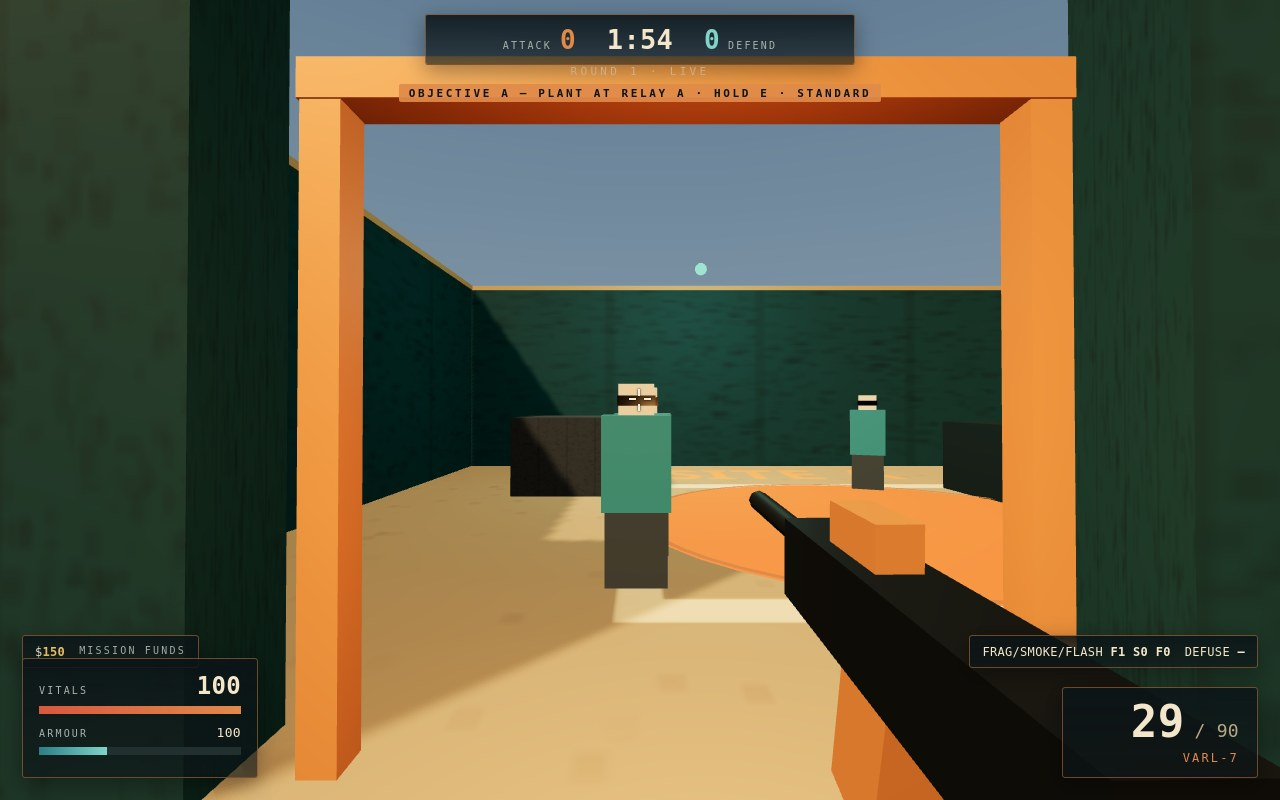
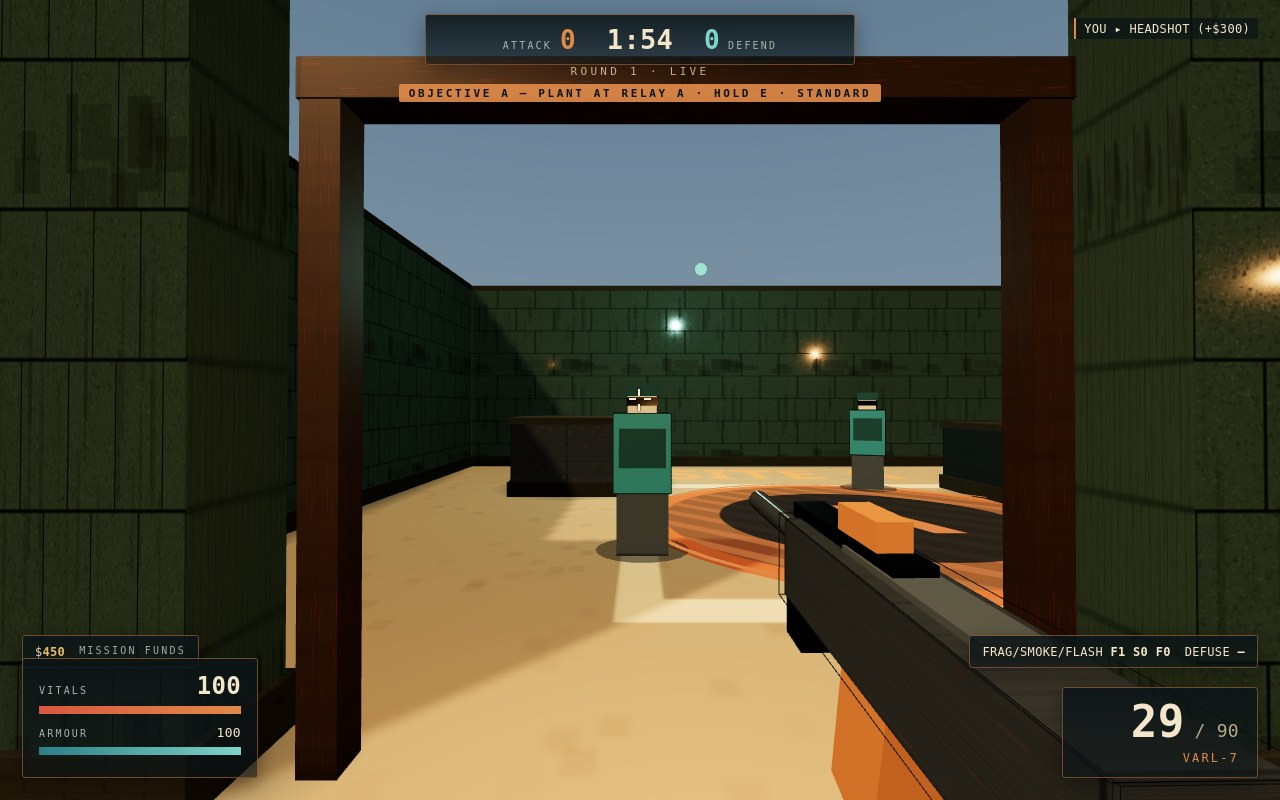
Material pass: tiled concrete/metal/sand, contact AO, outlined two-tone figures, detailed viewmodel
- world.js: canvas-built tiled textures (masonry concrete with mortar and damp streaks,
  brushed metal with rust, layered sand), reused as roughness maps; per-surface base
  colours so sand walls, concrete splitter, teal hall panels and steel crates separate;
  skirting and cap strips on every wall; hazard-hatch site markings per layout; contact
  AO gradient planes under every solid, all built once at load
- main.js: two-tone figures (torso + armour plate + helmet), team-specific head/helmet
  colour, static edge outlines on body and head, larger ground contact shadow
- world.js viewmodel: brushed receiver texture, rail and top strip, thinner accent sight,
  dark edge outline so the rifle reads as an object
- no gameplay logic touched; textures are built once, no per-frame canvas work

Tests: logic 8/8, objective 17/17, browser 60 checks (sim cost 34 ms per simulated second),
dossier 478274 bytes reproduced byte for byte.

diff --git a/game/world.js b/game/world.js
@@ -1,25 +1,78 @@
-// Render world: geometry generated from the same SOLIDS data used for collision.
+// Render world: geometry from the collision SOLIDS, materials from canvases built once at load.
 import * as THREE from 'three';
 import {SOLIDS,SITES} from './map.js';
 export const PALETTE={
   skyTop:'#243a56',skyLow:'#f0a45e',ground:'#8d7b5f',sand:'#c9ac82',sandDark:'#a88c64',
   teal:'#1f5f63',tealDark:'#143e44',steel:'#3a4149',orange:'#e08a4a',cream:'#f2e3c8',
+  grime:'#3a352b',concrete:'#6f7a74',
 };
 function canvasTexture(w,h,draw){
   const c=document.createElement('canvas');c.width=w;c.height=h;draw(c.getContext('2d'),w,h);
-  const t=new THREE.CanvasTexture(c);t.colorSpace=THREE.SRGBColorSpace;t.anisotropy=4;return t;
+  const t=new THREE.CanvasTexture(c);t.colorSpace=THREE.SRGBColorSpace;t.anisotropy=4;
+  t.wrapS=t.wrapT=THREE.RepeatWrapping;return t;
 }
-function noiseTexture(base,spec,size=128){
-  return canvasTexture(size,size,(g,w,h)=>{
+// Masonry: mortar joints, pitting, damp streaks near the base. Tiled, never redrawn per frame.
+function concreteTexture(base,mortar,repeatX=2,repeatY=1){
+  const t=canvasTexture(512,512,(g,w,h)=>{
     g.fillStyle=base;g.fillRect(0,0,w,h);
-    for(let i=0;i<900;i++){
-      const a=0.03+Math.random()*0.06;
-      g.fillStyle=`rgba(${spec},${a})`;
+    for(let i=0;i<9000;i++){
+      const a=0.04+Math.random()*0.13;
+      g.fillStyle=`rgba(255,255,255,${a*0.5})`;
+      g.fillRect(Math.random()*w,Math.random()*h,1+Math.random()*2,1+Math.random()*2);
+      g.fillStyle=`rgba(40,36,30,${a})`;
       g.fillRect(Math.random()*w,Math.random()*h,1+Math.random()*3,1+Math.random()*3);
     }
-    g.strokeStyle='rgba(0,0,0,0.16)';g.lineWidth=1;
-    for(let i=0;i<w;i+=32){g.beginPath();g.moveTo(i,0);g.lineTo(i,h);g.stroke();}
+    g.strokeStyle=mortar;g.lineWidth=3;
+    for(let y=0;y<=h;y+=128){g.beginPath();g.moveTo(0,y);g.lineTo(w,y);g.stroke();}
+    for(let y=0;y<h;y+=128)for(let x=(y/128)%2?64:0;x<=w;x+=128){
+      g.beginPath();g.moveTo(x,y);g.lineTo(x,y+128);g.stroke();
+    }
+    for(let i=0;i<26;i++){
+      const x=Math.random()*w,y=Math.random()*h*0.5,hh=40+Math.random()*180;
+      g.fillStyle=`rgba(24,26,22,${0.05+Math.random()*0.09})`;
+      g.fillRect(x,y,3+Math.random()*10,hh);
+    }
+    for(let i=0;i<12;i++){
+      g.fillStyle=`rgba(30,26,20,${0.10+Math.random()*0.12})`;
+      g.fillRect(Math.random()*w,h-30-Math.random()*70,20+Math.random()*70,20+Math.random()*60);
+    }
   });
+  t.repeat.set(repeatX,repeatY);return t;
+}
+function metalTexture(base,rust=0.5,repeatX=2,repeatY=1){
+  const t=canvasTexture(256,256,(g,w,h)=>{
+    g.fillStyle=base;g.fillRect(0,0,w,h);
+    for(let y=0;y<h;y+=2){
+      g.fillStyle=`rgba(255,255,255,${Math.random()*0.05})`;g.fillRect(0,y,w,1);
+      g.fillStyle=`rgba(0,0,0,${Math.random()*0.07})`;g.fillRect(0,y+1,w,1);
+    }
+    for(let i=0;i<8;i++){g.fillStyle='rgba(0,0,0,0.18)';g.fillRect(0,Math.random()*h,w,1);}
+    for(let i=0;i<70;i++){
+      g.fillStyle=`rgba(150,86,40,${Math.random()*rust*0.5})`;
+      const s=2+Math.random()*12;g.fillRect(Math.random()*w,Math.random()*h,s,s*0.6);
+    }
+    g.strokeStyle='rgba(0,0,0,0.35)';g.lineWidth=2;g.strokeRect(2,2,w-4,h-4);
+  });
+  t.repeat.set(repeatX,repeatY);return t;
+}
+function sandTexture(){
+  const t=canvasTexture(512,512,(g,w,h)=>{
+    g.fillStyle=PALETTE.sand;g.fillRect(0,0,w,h);
+    for(let y=0;y<h;y+=6){
+      g.fillStyle=`rgba(120,94,60,${0.03+Math.random()*0.07})`;g.fillRect(0,y,w,2+Math.random()*4);
+    }
+    for(let i=0;i<7000;i++){
+      g.fillStyle=Math.random()>0.5?'rgba(80,62,40,0.12)':'rgba(255,238,205,0.15)';
+      g.fillRect(Math.random()*w,Math.random()*h,1+Math.random()*2,1+Math.random()*2);
+    }
+    for(let i=0;i<10;i++){
+      g.strokeStyle='rgba(90,70,46,0.18)';g.lineWidth=1+Math.random()*2;
+      g.beginPath();g.moveTo(Math.random()*w,0);
+      for(let y=0;y<h;y+=40)g.lineTo(Math.random()*w*0.3+40,y);
+      g.stroke();
+    }
+  });
+  t.repeat.set(2,1);return t;
 }
 function signTexture(title,sub){
   return canvasTexture(512,192,(g,w,h)=>{
@@ -34,8 +87,7 @@ function groundTexture(){
   return canvasTexture(1024,1024,(g,w,h)=>{
     const toU=x=>((x+20)/40)*w, toV=z=>((z+24)/48)*h;
     g.fillStyle=PALETTE.ground;g.fillRect(0,0,w,h);
-    for(let i=0;i<4000;i++){g.fillStyle=`rgba(60,50,38,${Math.random()*0.16})`;g.fillRect(Math.random()*w,Math.random()*h,4,4);}
-    // West arcade: pale sandstone band. East freight: teal band. The two lanes read apart at a glance.
+    for(let i=0;i<5200;i++){g.fillStyle=`rgba(60,50,38,${Math.random()*0.18})`;g.fillRect(Math.random()*w,Math.random()*h,4,4);}
     g.fillStyle='rgba(201,172,130,0.35)';g.fillRect(toU(-17),0,toU(8)-toU(-17),h);
     g.fillStyle='rgba(31,95,99,0.30)';g.fillRect(toU(8),0,toU(17)-toU(8),h);
     g.strokeStyle='rgba(240,214,166,0.55)';g.lineWidth=7;g.setLineDash([26,18]);
@@ -48,6 +100,30 @@ function groundTexture(){
     g.fillStyle='rgba(127,211,200,0.95)';g.fillText('SITE B',toU(-12),toV(-0.6));
     g.strokeStyle='rgba(127,211,200,0.8)';g.lineWidth=8;
     g.beginPath();g.arc(toU(-12),toV(2.5),58,0,Math.PI*2);g.stroke();
+  });
+}
+// Painted hazard hatch for the plant areas, drawn once per site.
+function siteMarking(site){
+  return canvasTexture(512,512,(g,w,h)=>{
+    g.clearRect(0,0,w,h);
+    g.save();g.beginPath();g.arc(w/2,h/2,w*0.47,0,Math.PI*2);g.clip();
+    g.fillStyle='rgba(20,26,26,0.30)';g.fillRect(0,0,w,h);
+    g.strokeStyle=site.accent;g.globalAlpha=0.55;g.lineWidth=18;
+    for(let i=-h;i<w+h;i+=64){g.beginPath();g.moveTo(i,0);g.lineTo(i+h,h);g.stroke();}
+    g.globalAlpha=1;g.fillStyle='rgba(12,20,20,0.82)';g.beginPath();g.arc(w/2,h/2,w*0.34,0,Math.PI*2);g.fill();
+    g.fillStyle=site.accent;g.font='bold 210px sans-serif';g.textAlign='center';g.textBaseline='middle';
+    g.fillText(site.short,w/2,h/2+10);
+    g.restore();
+  });
+}
+// Soft contact occlusion: one gradient texture reused under every solid, built once.
+function aoTexture(){
+  return canvasTexture(128,128,(g,w,h)=>{
+    const grad=g.createRadialGradient(w/2,h/2,w*0.12,w/2,h/2,w*0.5);
+    grad.addColorStop(0,'rgba(8,10,10,0.55)');
+    grad.addColorStop(0.55,'rgba(8,10,10,0.28)');
+    grad.addColorStop(1,'rgba(8,10,10,0)');
+    g.clearRect(0,0,w,h);g.fillStyle=grad;g.fillRect(0,0,w,h);
   });
 }
 export function buildWorld(scene){
@@ -70,15 +146,23 @@ export function buildWorld(scene){
   const fieldMat=new THREE.MeshStandardMaterial({map:groundTexture(),roughness:0.95,metalness:0.02});
   const field=new THREE.Mesh(new THREE.PlaneGeometry(40,48),fieldMat);
   field.rotation.x=-Math.PI/2;field.receiveShadow=true;scene.add(field);
-  const texSand=noiseTexture(PALETTE.sand,'92,68,40'),texTeal=noiseTexture(PALETTE.tealDark,'0,0,0'),texSteel=noiseTexture(PALETTE.steel,'20,24,28');
+  // Textures are built once here; materials share them, so the frame loop never touches a canvas.
+  const texSand=sandTexture();
+  const texHall=concreteTexture('#54635e','rgba(16,22,20,0.75)',4,2);
+  const texConcrete=concreteTexture(PALETTE.concrete,'rgba(28,30,26,0.7)',2.5,1.5);
+  const texSteel=metalTexture(PALETTE.steel,0.7,2,1);
+  const texCargo=metalTexture('#b96a34',0.9,2,1);
+  const texConsole=metalTexture('#2b3a3f',0.25,1,1);
   const mats={
-    boundary:new THREE.MeshStandardMaterial({map:texSand,roughness:0.9}),
-    splitter:new THREE.MeshStandardMaterial({map:texSand,roughness:0.92}),
-    hall:new THREE.MeshStandardMaterial({map:texTeal,roughness:0.85}),
-    crate:new THREE.MeshStandardMaterial({map:texSteel,roughness:0.7,metalness:0.25}),
-    cargo:new THREE.MeshStandardMaterial({color:PALETTE.orange,roughness:0.8}),
-    console:new THREE.MeshStandardMaterial({color:'#2b3a3f',roughness:0.6,metalness:0.4}),
+    boundary:new THREE.MeshStandardMaterial({map:texSand,roughnessMap:texSand,roughness:0.96,metalness:0.02,color:'#cbb08a'}),
+    splitter:new THREE.MeshStandardMaterial({map:texConcrete,roughnessMap:texConcrete,roughness:0.9,metalness:0.03,color:'#b8a888'}),
+    hall:new THREE.MeshStandardMaterial({map:texHall,roughnessMap:texHall,roughness:0.8,metalness:0.08,color:'#96aaa2'}),
+    crate:new THREE.MeshStandardMaterial({map:texSteel,roughnessMap:texSteel,roughness:0.62,metalness:0.45}),
+    cargo:new THREE.MeshStandardMaterial({map:texCargo,roughnessMap:texCargo,roughness:0.72,metalness:0.3}),
+    console:new THREE.MeshStandardMaterial({map:texConsole,roughnessMap:texConsole,roughness:0.5,metalness:0.55}),
   };
+  const trimDark=new THREE.MeshStandardMaterial({map:texConcrete,roughness:0.95,metalness:0.05,color:'#4d4838'});
+  const aoMat=new THREE.MeshBasicMaterial({map:aoTexture(),transparent:true,depthWrite:false,toneMapped:false});
   const geoByKey=new Map();
   for(const b of SOLIDS){
     const key=`${b.w}|${b.d}|${b.h}`;
@@ -86,12 +170,15 @@ export function buildWorld(scene){
     if(!geo){geo=new THREE.BoxGeometry(b.w,b.h,b.d);geoByKey.set(key,geo);}
     const m=new THREE.Mesh(geo,mats[b.kind]||mats.crate);
     m.position.set(b.x,b.h/2,b.z);m.castShadow=true;m.receiveShadow=true;scene.add(m);
-    if(b.kind==='boundary'||b.kind==='hall'){
-      const cap=new THREE.Mesh(new THREE.BoxGeometry(b.w+0.08,0.12,b.d+0.08),new THREE.MeshStandardMaterial({color:PALETTE.sandDark,roughness:0.9}));
-      cap.position.set(b.x,b.h-0.06,b.z);scene.add(cap);
-    }
+    // Skirting at the base and a cap at the top give every wall an edge instead of a flat plane.
+    const skirt=new THREE.Mesh(new THREE.BoxGeometry(b.w+0.1,0.26,b.d+0.1),trimDark);
+    skirt.position.set(b.x,0.13,b.z);skirt.receiveShadow=true;scene.add(skirt);
+    const cap=new THREE.Mesh(new THREE.BoxGeometry(b.w+0.08,0.12,b.d+0.08),trimDark);
+    cap.position.set(b.x,b.h-0.06,b.z);scene.add(cap);
+    const ao=new THREE.Mesh(new THREE.PlaneGeometry(b.w+1.1,b.d+1.1),aoMat);
+    ao.rotation.x=-Math.PI/2;ao.position.set(b.x,0.012,b.z);scene.add(ao);
   }
-  const trim=new THREE.MeshStandardMaterial({color:PALETTE.orange,roughness:0.6,metalness:0.3});
+  const trim=new THREE.MeshStandardMaterial({map:texSteel,roughness:0.55,metalness:0.5,color:'#e6a06a'});
   for(const door of [[-3,-5],[8,-10]]){
     const post=new THREE.Mesh(new THREE.BoxGeometry(0.18,3.1,0.2),trim);
     post.position.set(door[0]-1.6,1.55,door[1]);scene.add(post);
@@ -119,16 +206,18 @@ export function buildWorld(scene){
     }
   }
   for(const site of SITES){
-    const pad=new THREE.Mesh(new THREE.CircleGeometry(site.radius,40),new THREE.MeshStandardMaterial({color:'#c8642e',roughness:0.9,emissive:'#5a2408',emissiveIntensity:0.6}));
-    pad.rotation.x=-Math.PI/2;pad.position.set(site.x,0.02,site.z);scene.add(pad);
+    const pad=new THREE.Mesh(new THREE.CircleGeometry(site.radius,40),new THREE.MeshStandardMaterial({color:'#b45a2c',roughness:0.95,metalness:0.02}));
+    pad.rotation.x=-Math.PI/2;pad.position.set(site.x,0.02,site.z);pad.receiveShadow=true;scene.add(pad);
+    const mark=new THREE.Mesh(new THREE.PlaneGeometry(site.radius*1.9,site.radius*1.9),
+      new THREE.MeshBasicMaterial({map:siteMarking(site),transparent:true,toneMapped:false,depthWrite:false}));
+    mark.rotation.x=-Math.PI/2;mark.position.set(site.x,0.035,site.z);scene.add(mark);
     const ring=new THREE.Mesh(new THREE.RingGeometry(site.radius-0.08,site.radius,48),new THREE.MeshBasicMaterial({color:site.accent,side:THREE.DoubleSide,toneMapped:false}));
-    ring.rotation.x=-Math.PI/2;ring.position.set(site.x,0.04,site.z);scene.add(ring);
+    ring.rotation.x=-Math.PI/2;ring.position.set(site.x,0.05,site.z);scene.add(ring);
   }
-  // West arcade colonnade: warm sandstone posts give that lane its own silhouette.
   for(let i=0;i<5;i++){
-    const post=new THREE.Mesh(new THREE.CylinderGeometry(0.26,0.3,3.4,8),new THREE.MeshStandardMaterial({map:texSand,roughness:0.9}));
+    const post=new THREE.Mesh(new THREE.CylinderGeometry(0.26,0.3,3.4,10),new THREE.MeshStandardMaterial({map:texSand,roughnessMap:texSand,roughness:0.9}));
     post.position.set(-16.2,1.7,12-i*4.4);post.castShadow=true;scene.add(post);
-    const cap=new THREE.Mesh(new THREE.BoxGeometry(0.9,0.22,0.9),new THREE.MeshStandardMaterial({color:PALETTE.sandDark,roughness:0.9}));
+    const cap=new THREE.Mesh(new THREE.BoxGeometry(0.9,0.22,0.9),new THREE.MeshStandardMaterial({map:texConcrete,roughness:0.9}));
     cap.position.set(-16.2,3.5,12-i*4.4);scene.add(cap);
   }
   for(const l of [[-9,4,0xffb066],[10,4,0xffb066],[-2,-13,0x9fe3d0],[6,-3,0xffb066]]){
@@ -136,22 +225,33 @@ export function buildWorld(scene){
     const bulb=new THREE.Mesh(new THREE.SphereGeometry(0.12,8,8),new THREE.MeshBasicMaterial({color:l[2],toneMapped:false}));
     bulb.position.copy(lamp.position);scene.add(bulb);
   }
-  const mast=new THREE.Mesh(new THREE.CylinderGeometry(0.09,0.12,7,8),new THREE.MeshStandardMaterial({color:PALETTE.steel,metalness:0.6,roughness:0.4}));
+  const mast=new THREE.Mesh(new THREE.CylinderGeometry(0.09,0.12,7,10),new THREE.MeshStandardMaterial({map:texConsole,metalness:0.6,roughness:0.4}));
   mast.position.set(-15,3.5,-19);scene.add(mast);
   return {sun};
 }
 export function buildViewmodel(camera){
   const group=new THREE.Group();
-  const bodyMat=new THREE.MeshStandardMaterial({color:'#23292e',roughness:0.55,metalness:0.4});
-  const trimMat=new THREE.MeshStandardMaterial({color:PALETTE.orange,roughness:0.5,metalness:0.3});
+  const texGun=metalTexture('#4a535b',0.35,1,1);
+  const bodyMat=new THREE.MeshStandardMaterial({map:texGun,roughnessMap:texGun,roughness:0.5,metalness:0.55});
+  const railMat=new THREE.MeshStandardMaterial({color:'#12181c',roughness:0.36,metalness:0.75});
+  const trimMat=new THREE.MeshStandardMaterial({color:PALETTE.orange,roughness:0.45,metalness:0.35});
   const body=new THREE.Mesh(new THREE.BoxGeometry(0.09,0.11,0.52),bodyMat);
-  const barrel=new THREE.Mesh(new THREE.CylinderGeometry(0.018,0.02,0.36,8),bodyMat);
+  const barrel=new THREE.Mesh(new THREE.CylinderGeometry(0.018,0.02,0.36,10),bodyMat);
   barrel.rotation.x=Math.PI/2;barrel.position.set(0,0.012,-0.42);
+  const rail=new THREE.Mesh(new THREE.BoxGeometry(0.045,0.022,0.3),railMat);rail.position.set(0,0.062,-0.14);
   const stock=new THREE.Mesh(new THREE.BoxGeometry(0.07,0.09,0.22),bodyMat);stock.position.set(0,-0.02,0.32);
   const mag=new THREE.Mesh(new THREE.BoxGeometry(0.07,0.17,0.1),trimMat);mag.position.set(0,-0.13,-0.04);mag.rotation.x=0.2;
-  const grip=new THREE.Mesh(new THREE.BoxGeometry(0.06,0.14,0.08),bodyMat);grip.position.set(0,-0.11,0.18);grip.rotation.x=-0.25;
-  const sight=new THREE.Mesh(new THREE.BoxGeometry(0.05,0.05,0.12),trimMat);sight.position.set(0,0.08,-0.08);
-  group.add(body,barrel,stock,mag,grip,sight);
+  const grip=new THREE.Mesh(new THREE.BoxGeometry(0.06,0.14,0.08),railMat);grip.position.set(0,-0.11,0.18);grip.rotation.x=-0.25;
+  const foregrip=new THREE.Mesh(new THREE.BoxGeometry(0.05,0.1,0.07),railMat);foregrip.position.set(0,-0.085,-0.28);
+  const sight=new THREE.Mesh(new THREE.BoxGeometry(0.038,0.038,0.1),trimMat);sight.position.set(0,0.086,-0.08);
+  const topStrip=new THREE.Mesh(new THREE.BoxGeometry(0.052,0.012,0.24),new THREE.MeshStandardMaterial({color:'#6d7a82',roughness:0.4,metalness:0.6}));
+  topStrip.position.set(0,0.056,0.02);
+  group.add(topStrip);
+  group.add(body,barrel,rail,stock,mag,grip,foregrip,sight);
+  // Dark outline: one static edge pass, so the rifle reads as an object against the scene.
+  const outline=new THREE.LineSegments(new THREE.EdgesGeometry(new THREE.BoxGeometry(0.1,0.12,0.54)),
+    new THREE.LineBasicMaterial({color:'#0a1013',transparent:true,opacity:0.85}));
+  group.add(outline);
   group.position.set(0.26,-0.23,-0.52);
   const flash=new THREE.PointLight(0xffb066,0,7,2);flash.position.set(0,0.02,-0.6);group.add(flash);
   camera.add(group);

diff --git a/game/main.js b/game/main.js
@@ -39,18 +39,39 @@ for(const btn of document.querySelectorAll('.mode')){
   });
 }
 // Character meshes are pooled once; the loop only moves them.
-const BOT_GEO={body:new THREE.BoxGeometry(0.62,0.86,0.4),head:new THREE.BoxGeometry(0.32,0.3,0.32),legs:new THREE.BoxGeometry(0.56,0.78,0.36)};
-const BOT_MAT={attack:new THREE.MeshStandardMaterial({color:'#d8894a',roughness:0.7}),defend:new THREE.MeshStandardMaterial({color:'#2f7f86',roughness:0.7}),head:new THREE.MeshStandardMaterial({color:'#e8cdac',roughness:0.8}),legs:new THREE.MeshStandardMaterial({color:'#39434a',roughness:0.85})};
+const BOT_GEO={body:new THREE.BoxGeometry(0.62,0.86,0.4),head:new THREE.BoxGeometry(0.32,0.3,0.32),legs:new THREE.BoxGeometry(0.56,0.78,0.36),
+  plate:new THREE.BoxGeometry(0.5,0.42,0.1),helmet:new THREE.BoxGeometry(0.36,0.14,0.36)};
+const BOT_MAT={
+  attack:new THREE.MeshStandardMaterial({color:'#d8894a',roughness:0.58,metalness:0.18}),
+  attackDark:new THREE.MeshStandardMaterial({color:'#8d4d22',roughness:0.66,metalness:0.22}),
+  defend:new THREE.MeshStandardMaterial({color:'#2f7f86',roughness:0.56,metalness:0.24}),
+  defendDark:new THREE.MeshStandardMaterial({color:'#164549',roughness:0.64,metalness:0.26}),
+  headA:new THREE.MeshStandardMaterial({color:'#e6c9a4',roughness:0.72}),
+  headD:new THREE.MeshStandardMaterial({color:'#c9b596',roughness:0.72}),
+  legs:new THREE.MeshStandardMaterial({color:'#39434a',roughness:0.8,metalness:0.12}),
+};
+const OUTLINE_MAT=new THREE.LineBasicMaterial({color:'#070c0e',transparent:true,opacity:0.9});
+const OUT_BODY=new THREE.EdgesGeometry(BOT_GEO.body),OUT_HEAD=new THREE.EdgesGeometry(BOT_GEO.head);
+const SHADOW_GEO=new THREE.CircleGeometry(0.52,18);
+const SHADOW_MAT=new THREE.MeshBasicMaterial({color:0x0a1012,transparent:true,opacity:0.46,depthWrite:false});
 const actorMeshes=[];
 for(let i=0;i<7;i++){
   const g=new THREE.Group();
   const legs=new THREE.Mesh(BOT_GEO.legs,BOT_MAT.legs);legs.position.y=0.39;
   const body=new THREE.Mesh(BOT_GEO.body,BOT_MAT.defend);body.position.y=1.1;
-  const head=new THREE.Mesh(BOT_GEO.head,BOT_MAT.head);head.position.y=1.66;
-  const visor=new THREE.Mesh(new THREE.BoxGeometry(0.34,0.09,0.06),new THREE.MeshStandardMaterial({color:'#101a1c',roughness:0.2,metalness:0.6}));
+  const plate=new THREE.Mesh(BOT_GEO.plate,BOT_MAT.defendDark);plate.position.set(0,1.16,-0.21);
+  const head=new THREE.Mesh(BOT_GEO.head,BOT_MAT.headD);head.position.y=1.66;
+  const helmet=new THREE.Mesh(BOT_GEO.helmet,BOT_MAT.defendDark);helmet.position.y=1.79;
+  const visor=new THREE.Mesh(new THREE.BoxGeometry(0.34,0.09,0.06),new THREE.MeshStandardMaterial({color:'#0b1416',roughness:0.18,metalness:0.7}));
   visor.position.set(0,1.66,-0.16);
-  g.add(legs,body,head,visor);g.castShadow=true;g.visible=false;scene.add(g);
-  actorMeshes.push({group:g,body,head});
+  const bodyEdges=new THREE.LineSegments(OUT_BODY,OUTLINE_MAT);
+  bodyEdges.position.copy(body.position);
+  const headEdges=new THREE.LineSegments(OUT_HEAD,OUTLINE_MAT);
+  headEdges.position.copy(head.position);
+  const shadow=new THREE.Mesh(SHADOW_GEO,SHADOW_MAT);
+  shadow.rotation.x=-Math.PI/2;shadow.visible=false;scene.add(shadow);
+  g.add(legs,body,plate,head,helmet,visor,bodyEdges,headEdges);g.castShadow=true;g.visible=false;scene.add(g);
+  actorMeshes.push({group:g,body,plate,head,helmet,shadow,bodyEdges,headEdges});
 }
 const tracerGeo=new THREE.BufferGeometry();
 const tracerPos=new Float32Array(6);
@@ -220,12 +241,23 @@ function render(){
   for(let i=0;i<state.actors.length&&i<actorMeshes.length;i++){
     const a=state.actors[i],m=actorMeshes[i];
     m.group.visible=a.alive;
+    m.shadow.visible=a.alive;
     if(!a.alive)continue;
     m.group.position.set(a.x,a.y,a.z);
     m.group.rotation.y=a.yaw;
-    m.body.material=a.team==='attack'?BOT_MAT.attack:BOT_MAT.defend;
+    const atk=a.team==='attack';
+    m.body.material=atk?BOT_MAT.attack:BOT_MAT.defend;
+    m.plate.material=atk?BOT_MAT.attackDark:BOT_MAT.defendDark;
+    m.helmet.material=atk?BOT_MAT.attackDark:BOT_MAT.defendDark;
+    m.head.material=atk?BOT_MAT.headA:BOT_MAT.headD;
     m.body.position.y=a.crouch?0.85:1.1;
     m.head.position.y=a.crouch?1.41:1.66;
+    m.helmet.position.y=a.crouch?1.54:1.79;
+    m.plate.position.y=a.crouch?0.91:1.16;
+    m.bodyEdges.position.y=m.body.position.y;
+    m.headEdges.position.y=m.head.position.y;
+    m.shadow.position.set(a.x,0.025,a.z);
+    m.shadow.scale.setScalar(a.crouch?0.85:1);
   }
   const b=state.bomb;
   bombGroup.visible=!!b;
